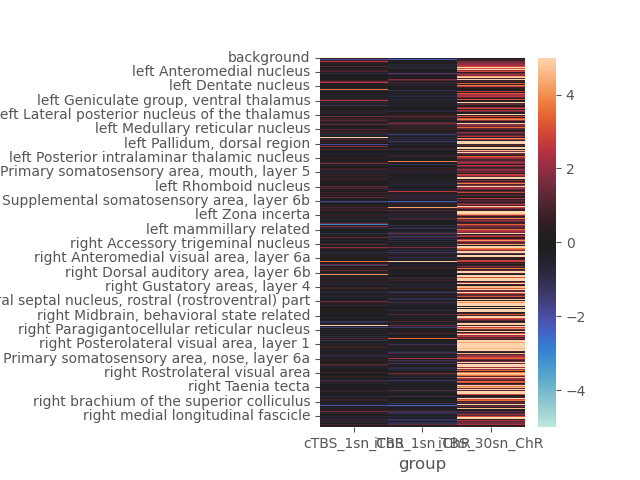
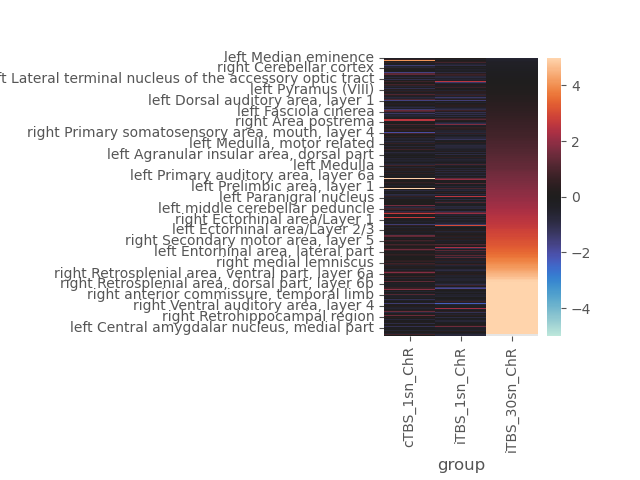
Heatmap is working but needs some tweaks and an informative naming scheme.

diff --git a/scripts/gather_cfos_data.py b/scripts/gather_cfos_data.py
@@ -220,16 +220,17 @@ def generate_stats_and_venn(t_test_df, alpha=0.05):
     return venn_diagram, t_test_df_sort_iTBS_30sn, t_test_df_sort_iTBS_1sn, t_test_df_sort_cTBS_1sn
 
 
-def generate_heatmap(cfos_vrt_collapse, t_test_df, pval_label, title, save_path=r"C:\Users\shane\workspace\gather_cfos_data\results"):
-    pval_df = t_test_df[pval_label]
+def generate_heatmap(cfos_vrt_collapse, sort_col, title, save_path=r"C:\Users\shane\workspace\gather_cfos_data\results"):
+    # pval_df = t_test_df[pval_label]
     cfos_vrt_collapse_pivot = pd.pivot_table(cfos_vrt_collapse, values = "density_zscore", index="name", columns="group", aggfunc=np.nanmean)
-    cfos_vrt_collapse_pivot["pval"] = pval_df[cfos_vrt_collapse.index].values
-    cfos_vrt_collapse_pivot = cfos_vrt_collapse_pivot.sort_values(by="pval")
-    cfos_vrt_collapse_pivot = cfos_vrt_collapse_pivot.drop(columns=["1sn_GFP", "iTBS_30sn_YFP", "pval"]) # drop the control columns, which contain data centered on 0 and are thus not informative for a heatmap
+    # cfos_vrt_collapse_pivot["pval"] = pval_df[cfos_vrt_collapse_pivot.index].values
+    cfos_vrt_collapse_pivot = cfos_vrt_collapse_pivot.sort_values(by=sort_col)
+    cfos_vrt_collapse_pivot = cfos_vrt_collapse_pivot.drop(columns=["1sn_GFP", "iTBS_30sn_YFP"]) # drop the control columns, which contain data centered on 0 and are thus not informative for a heatmap
     g = sns.heatmap(cfos_vrt_collapse_pivot, cmap="icefire", center=0, vmin=-5, vmax=5)
     fig = g.figure
     save_path_full = save_path + r"/" + title + ".png"
-    plt.subplots_adjust(left=0.5)
+    plt.subplots_adjust(left=0.6, bottom=0.3)
+    plt.xticks(rotation=90)
     fig.savefig(save_path_full)
     plt.close()
     return g
@@ -405,7 +406,7 @@ def main():
         palette=optoTMS_colors,
         )
 
-    heatmap = generate_heatmap(cfos_vrt_collapse_sorted, t_test_df=t_test_df, pval_label = "p_iTBS_30sn", title="Density z-score by group and region", save_path=r"C:\Users\shane\workspace\gather_cfos_data\results") # TODO: make this less clunky
+    heatmap = generate_heatmap(cfos_vrt_collapse, sort_col="iTBS_30sn_ChR", title="Density z-score by group and region", save_path=r"C:\Users\shane\workspace\gather_cfos_data\results") # TODO: make this less clunky
 
 
 if __name__ == "__main__":
